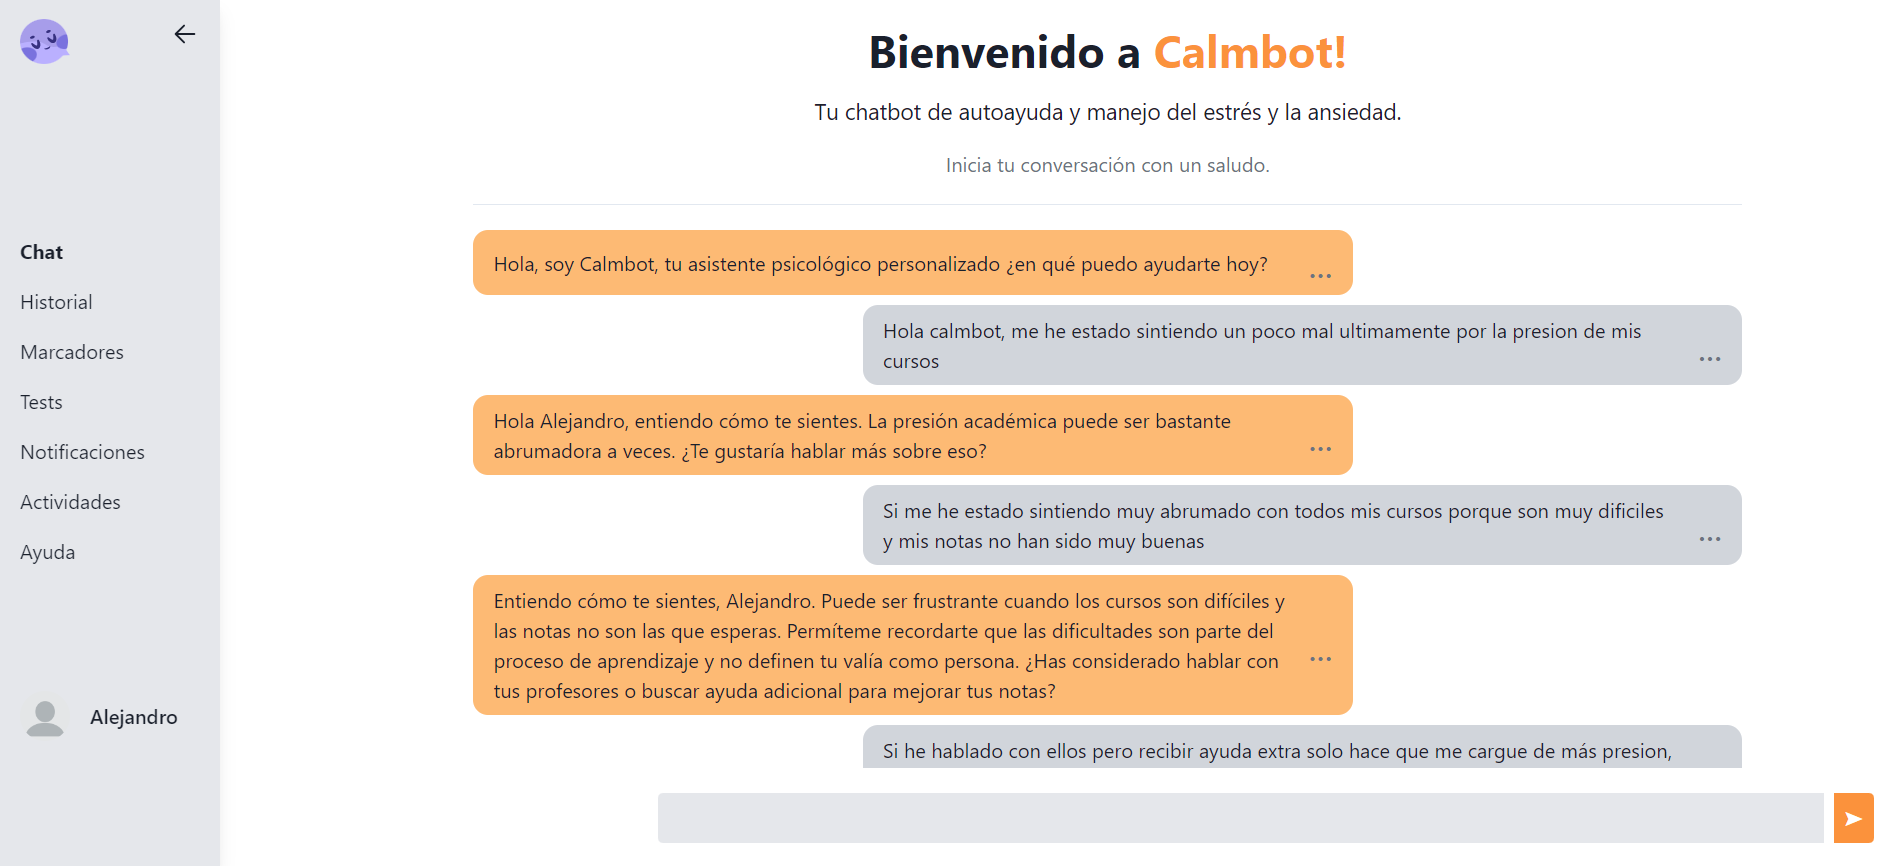
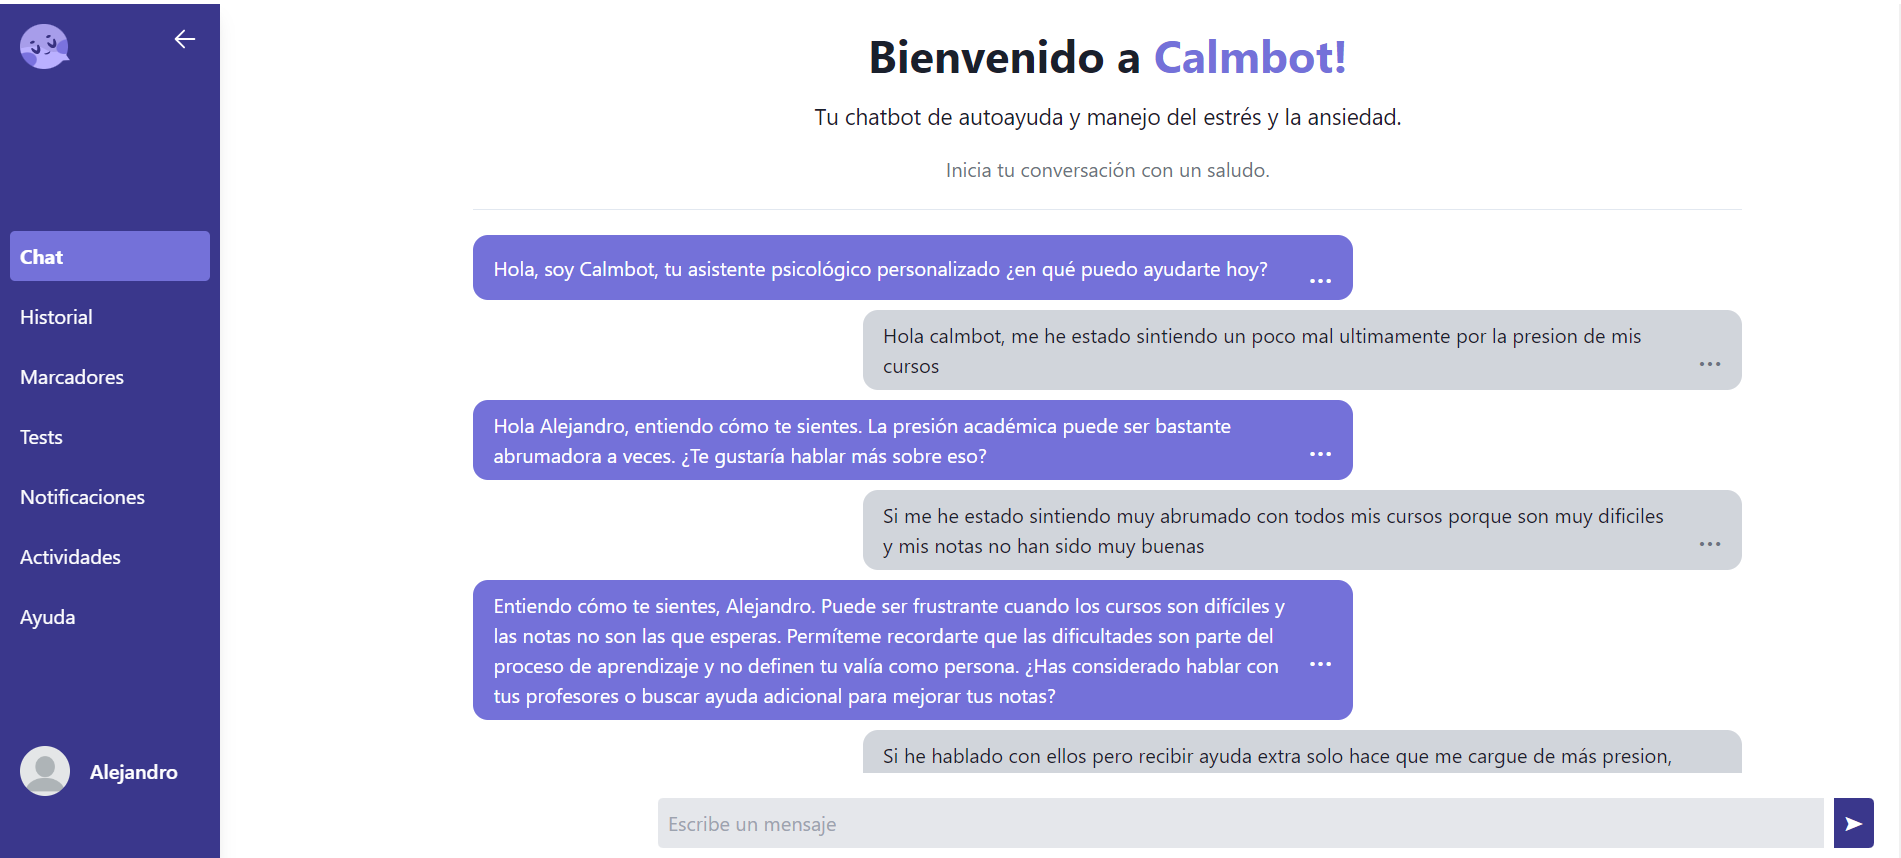
feat: improved styles for the chatbot
Added animations and changed the color pallete to match the app's logo.

diff --git a/components/user/sidebar.js b/components/user/sidebar.js
@@ -7,15 +7,54 @@ import { useState,useEffect } from "react";
 
 const SidebarUser =  ({children}) => {
   const [closed, setClosed] = useState(false);
+  const [chat, setChat] = useState(true);
+  const [historial, setHistorial] = useState(false);
+  const [marcadores, setMarcadores] = useState(false);
+  const [tests, setTests] = useState(false);
+  const [notificaciones, setNotificaciones] = useState(false);
+  const [actividades, setActividades] = useState(false);
+  const [ayuda, setAyuda] = useState(false);
+  
+
+
   function toggle() {
     setClosed(!closed);
+  }
+
+  const setAllFalse = () =>{
+    setChat(false)
+    setHistorial(false)
+    setMarcadores(false)
+    setTests(false)
+    setNotificaciones(false)
+    setActividades(false)
+    setAyuda(false)
+  }
+
+  const handleOptionClick = (option)=>{
+    setAllFalse();
+    if(option == "chat"){
+      setChat(true);
+    }else if(option == "historial"){
+      setHistorial(true);
+    }else if(option == "marcadores"){
+      setMarcadores(true);
+    }else if(option == "tests"){
+      setTests(true);
+    }else if(option == "notificaciones"){
+      setNotificaciones(true);
+    }else if(option == "actividades"){
+      setActividades(true);
+    }else if(option == "ayuda"){
+      setAyuda(true);
+    }
   }
 
   return (
     <div className="flex">
       <div
       className={
-        closed ? " fixed z-50 h-screen bg-gray-200 " : "fixed shadow-lg h-screen bg-gray-200 z-50 "
+        closed ? "text-white fixed z-50 h-screen bg-[#3A378C] " : "text-white fixed shadow-lg h-screen bg-[#3A378C] z-50 "
       }
     >
       <div className="h-1/4 flex">
@@ -46,33 +85,33 @@ const SidebarUser =  ({children}) => {
       </div>
       {!closed && (
         <div className="h-2/4">
-          <Link href="/user">
-            <p className="m-4">
+          <Link href="/user"  onClick={()=>handleOptionClick("chat")}>
+            <p className={`p-2 m-2 rounded ${chat?"bg-[#7471D9] hover:bg-[#7471D9]": "hover:bg-[#7471D9]"}`}>
               <b>Chat</b>
             </p>
           </Link>
-          <Link href="/user/historial">
-            <p className="m-4">Historial</p>
+          <Link href="/user/historial" onClick={()=>handleOptionClick("historial")}>
+            <p className={`p-2 m-2 rounded ${historial?"bg-[#7471D9] hover:bg-[#7471D9]": "hover:bg-[#7471D9]"}`}>Historial</p>
           </Link>
-          <Link href="/user/marcadores">
-            <p className="m-4">Marcadores</p>
+          <Link href="/user/marcadores" onClick={()=>handleOptionClick("marcadores")}>
+            <p className={`p-2 m-2 rounded ${marcadores?"bg-[#7471D9] hover:bg-[#7471D9]": "hover:bg-[#7471D9]"}`}>Marcadores</p>
           </Link>
-          <Link href="/user/tests">
-            <p className="m-4">Tests</p>
+          <Link href="/user/tests" onClick={()=>handleOptionClick("tests")}>
+            <p className={`p-2 m-2 rounded ${tests?"bg-[#7471D9] hover:bg-[#7471D9]": "hover:bg-[#7471D9]"}`}>Tests</p>
           </Link>
-          <Link href="/user/notificaciones">
-            <p className="m-4">Notificaciones</p>
+          <Link href="/user/notificaciones" onClick={()=>handleOptionClick("notificaciones")}>
+            <p className={`p-2 m-2 rounded ${notificaciones?"bg-[#7471D9] hover:bg-[#7471D9]": "hover:bg-[#7471D9]"}`}>Notificaciones</p>
           </Link>
-          <Link href="/user/actividades">
-            <p className="m-4">Actividades</p>
+          <Link href="/user/actividades" onClick={()=>handleOptionClick("actividades")}>
+            <p className={`p-2 m-2 rounded ${actividades?"bg-[#7471D9] hover:bg-[#7471D9]": "hover:bg-[#7471D9]"}`}>Actividades</p>
           </Link>
-          <Link href="/user/ayuda">
-            <p className="m-4">Ayuda</p>
+          <Link href="/user/ayuda" onClick={()=>handleOptionClick("ayuda")}>
+            <p className={`p-2 m-2 rounded ${ayuda?"bg-[#7471D9] hover:bg-[#7471D9]": "hover:bg-[#7471D9]"}`}>Ayuda</p>
           </Link>
         </div>
       )}
       {!closed && (
-        <div >
+        <div className="mt-16">
           <UserProfile ></UserProfile>
         </div>
       )}

diff --git a/components/user/chat/textBubbles/text-bubble.js b/components/user/chat/textBubbles/text-bubble.js
@@ -3,8 +3,9 @@ import OptionsMenu from "./options-menu";
 import Dialog from "@/components/general/modal";
 
 const TextBubble = ({ chatMessage, onDelete }) => {
+  const buttonColor = chatMessage.sender == false ? "text-white hover:text-gray-200": "text-gray-500 hover:text-gray-700"
   const bubbleColor =
-    chatMessage.sender == false ? "bg-orange-300" : "bg-gray-300";
+    chatMessage.sender == false ? "bg-[#7471D9] text-white" : "bg-gray-300";
   const bubblePosition = chatMessage.sender == false ? "mr-auto" : "ml-auto";
   const [showOptions, setShowOptions] = useState(false);
   const [showDialogComplaint, setShowDialogComplaint] = useState(false);
@@ -71,7 +72,7 @@ const TextBubble = ({ chatMessage, onDelete }) => {
         <p>{chatMessage.text}</p>
         <div>
           <button
-            className="text-gray-500 hover:text-gray-700 focus:outline-none"
+            className={`${buttonColor} focus:outline-none`}
             onClick={() => setShowOptions(!showOptions)}
           >
             <span className="text-3xl ml-4">...</span>

diff --git a/app/user/tests/page.js b/app/user/tests/page.js
@@ -1,6 +1,7 @@
 "use client"
 
 import Card from "@/components/general/card"
+import Greeting from "@/components/general/greeting";
 import Dialog from "@/components/general/modal"
 import { useState } from "react";
 
@@ -23,7 +24,7 @@ export default function Home(){
 
   return(
     <div>
-      <h1 class="mb-2 text-2xl font-bold tracking-tight text-gray-900 dark:text-white py-6">Tests de ansiedad y estres</h1>
+      <Greeting title={"Tus Tests!"} text={"Acá podrás realizar los tests para medir tus niveles de ansiedad y estrés."}></Greeting>
       <div className="flex flex-wrap gap-4">
       <Card props={{title: "Cuestionario GAD-7", description:"Aqui podras dar el cuestionario GAD-7 para medir tus niveles de ansiedad actuales", image: "/ansiedad.jpg"}}>
       <button class="inline-flex items-center px-3 py-2 text-sm font-medium text-center text-white bg-blue-700 rounded-lg hover:bg-blue-800 focus:ring-4 focus:outline-none focus:ring-blue-300 dark:bg-blue-600 dark:hover:bg-blue-700 dark:focus:ring-blue-800"

diff --git a/components/general/greeting.js b/components/general/greeting.js
@@ -1,16 +1,15 @@
-const MarcadoresGreeting = () => {
+const Greeting = ({title, text}) => {
   return (
     <div className="w-5/6 mx-auto justify-center items-center">
       <h1 className="mt-5 text-4xl text-center font-bold">
-        Bienvenido a <span className="text-orange-400">Tus Marcadores!</span>
+        Bienvenido a <span className="text-[#7471D9]">{title}</span>
       </h1>
       <p className="text-center text-lg my-4">
-        Aqui podrás ver y gestionar los mensajes que has guardado durante las
-        sesiones.
+      {text}
       </p>
       <hr className="m-5"></hr>
     </div>
   );
 };
 
-export default MarcadoresGreeting;
+export default Greeting;

diff --git a/components/user/marcadores/marcadores-container.js b/components/user/marcadores/marcadores-container.js
@@ -2,7 +2,6 @@
 
 import React, { useState, useEffect } from "react";
 import MarcadoresBubble from "./marcadores-bubble";
-import MarcadoresGreeting from "./marcadores-greeting";
 import { useSession } from "next-auth/react";
 
 const MarcadoresContainer = () => {
@@ -27,9 +26,8 @@ const MarcadoresContainer = () => {
 
   return (
     <div>
-      {status === "loading"?<div><MarcadoresGreeting />Loading...</div>:
+      {status === "loading"?<div>Loading...</div>:
       <div>
-        <MarcadoresGreeting />
         <div className="w-2/3 mx-auto">
           {marcadores.map((marcador) => (
             <MarcadoresBubble

diff --git a/app/user/ayuda/page.js b/app/user/ayuda/page.js
@@ -1,3 +1,4 @@
+import Greeting from '@/components/general/greeting'
 import {
   Accordion,
   AccordionItem,
@@ -11,7 +12,7 @@ export default function FAQs(){
 
   return(
     <div>
-      <h1 className="mb-2 text-2xl font-bold tracking-tight text-gray-900 dark:text-white py-6">Preguntas Frecuentes</h1>
+      <Greeting title={"Preguntas Frecuentes!"} text={"Acá pordrás ver todas las dudas mas comunes sobre Calmbot."}></Greeting>
       <Accordion allowToggle  className="mr-10 space-y-8">
 
         <AccordionItem >

diff --git a/components/user/chat/text-input.js b/components/user/chat/text-input.js
@@ -21,10 +21,11 @@ const TextInput = ({ onUserMessage }) => {
               value={text}
               onChange={(e) => setText(e.target.value)}
               className="w-full mr-2 p-2 rounded-l bg-gray-200 "
+              placeholder="Escribe un mensaje"
             />
             <button
               onClick={handleSend}
-              className="bg-orange-400 text-white rounded-r p-2"
+              className="bg-[#3A378C] text-white rounded-r p-2"
             >
               {"➤"}
             </button>

diff --git a/app/user/notificaciones/page.js b/app/user/notificaciones/page.js
@@ -1,12 +1,12 @@
+import Greeting from "@/components/general/greeting";
 import Notifications from "@/components/user/notifications";
 
 
 export default function NotificationPermission(){
   return (
     <div>
-      <h1 className="mb-2 text-2xl font-bold tracking-tight text-gray-900 dark:text-white py-6">Notificaciones</h1>
+      <Greeting title={"Tus Notificaciones!"} text={"Acá podrás ver todas las notificaciones que has recibido."}></Greeting>
       <Notifications></Notifications>
-      
     </div>
   );
 }

diff --git a/app/user/historial/page.js b/app/user/historial/page.js
@@ -1,10 +1,11 @@
+import Greeting from "@/components/general/greeting";
 import ConversationHistory from "@/components/user/conversation-history";
 
 export default async function History(){
 
 
   return(<div>
-    <h1 className="mb-2 text-2xl font-bold tracking-tight text-gray-900 dark:text-white py-6">Historial</h1>
+    <Greeting title={"Tu Historial!"} text={"Acá podrás ver las conversaciones que has tenido con Calmbot cada día."}></Greeting>
     <ConversationHistory ></ConversationHistory>
   </div>);
 }

diff --git a/components/user/chat/chat-welcome.js b/components/user/chat/chat-welcome.js
@@ -2,7 +2,7 @@ const ChatWelcome = () => {
   return (
     <div className="w-5/6 mx-auto justify-center items-center">
       <h1 className="mt-5 text-4xl text-center font-bold">
-        Bienvenido a <span className="text-orange-400">Calmbot!</span>
+        Bienvenido a <span className="text-[#7471D9]">Calmbot!</span>
       </h1>
       <p className="text-center text-lg my-4">
         Tu chatbot de autoayuda y manejo del estrés y la ansiedad.

diff --git a/app/user/actividades/page.js b/app/user/actividades/page.js
@@ -1,8 +1,9 @@
+import Greeting from "@/components/general/greeting";
 import Tasks from "@/components/user/tasks";
 
 export default function TasksSection(){
   return(<div>
-    <h1 className="mb-2 text-2xl font-bold tracking-tight text-gray-900 dark:text-white py-6">Actividades</h1>
+    <Greeting title={"Tus Actividades!"} text={"Acá podrás ver todas tus actividades recomendadas por Calmbot."}></Greeting>
     <Tasks></Tasks>
   </div>);
 }

diff --git a/app/user/marcadores/page.js b/app/user/marcadores/page.js
@@ -1,8 +1,10 @@
+import Greeting from "@/components/general/greeting";
 import MarcadoresContainer from "@/components/user/marcadores/marcadores-container";
 
 export default function Home() {
   return (
     <div>
+      <Greeting title="Tus Marcadores!" text="Aqui podrás ver y gestionar los mensajes que has guardado durante las sesiones."></Greeting>
       <MarcadoresContainer />
     </div>
   );
